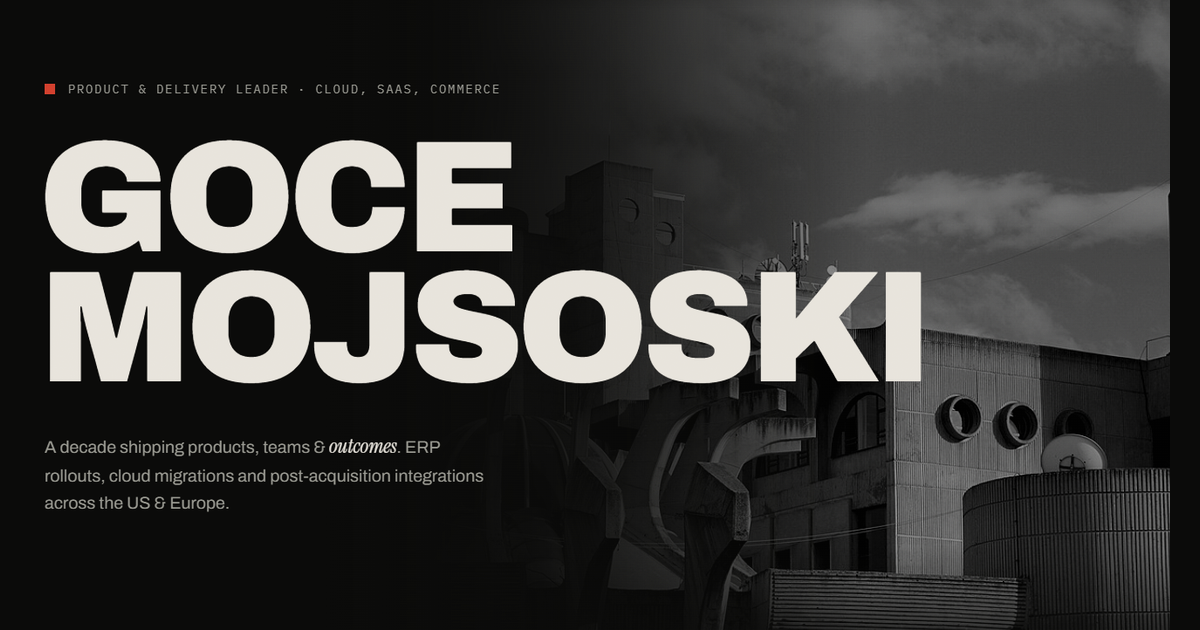
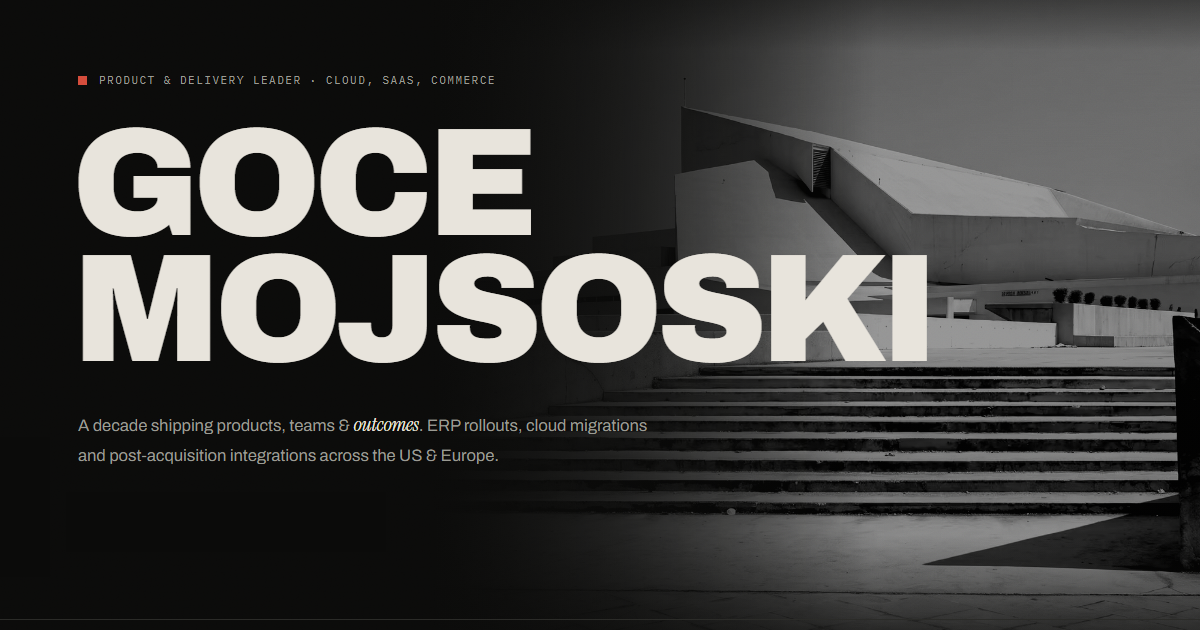
Share card: render the Opera hero as og-image.png
The 1200x630 social card still showed the post office photo. It is now
a headless-Chrome render of the current hero, cropped below the topbar
with the buttons and spine label painted out, like the old card.

The image URL gains ?v=2 in index.html and prerender's OG_IMAGE so
LinkedIn, Slack and Facebook fetch it fresh instead of serving the old
card from their URL-keyed caches. CLAUDE.md records how to redo it.

diff --git a/index.html b/index.html
@@ -58,7 +58,7 @@
       property="og:description"
       content="A decade shipping products, teams and outcomes across cloud, SaaS and commerce, US and Europe."
     />
-    <meta property="og:image" content="https://gmojsoski.com/og-image.png" />
+    <meta property="og:image" content="https://gmojsoski.com/og-image.png?v=2" />
     <meta
       property="og:image:alt"
       content="Goce Mojsoski, product and delivery leader"
@@ -72,7 +72,7 @@
       name="twitter:description"
       content="A decade shipping products, teams and outcomes across cloud, SaaS and commerce, US and Europe."
     />
-    <meta name="twitter:image" content="https://gmojsoski.com/og-image.png" />
+    <meta name="twitter:image" content="https://gmojsoski.com/og-image.png?v=2" />
     <meta
       name="twitter:image:alt"
       content="Goce Mojsoski, product and delivery leader"

diff --git a/CLAUDE.md b/CLAUDE.md
@@ -103,6 +103,12 @@ drive that.
     section, the hero's counterpart from above. Decorative (empty alt),
     lazy-loaded, about 30% visible, and `display: none` on phones so it is
     never downloaded there; hence `--desktop-only`.
+- **`public/og-image.png`** is a 1200×630 render of the hero: headless Chrome
+  (`--force-prefers-reduced-motion --window-size=1200,820`) against the dev
+  server, cropped below the topbar with the buttons and spine label painted
+  out. Redo it when the hero photo or copy changes, and bump the `?v=` on its
+  URL (`index.html` and `OG_IMAGE` in `scripts/prerender.mjs`): LinkedIn,
+  Slack and Facebook cache share images by URL.
 - **The back-to-top arrow holds a 100px gutter above 1720px** (`Footer.css`,
   `ScrollTop.css`). The content cap would otherwise strand it at the content
   edge, well inside a wide screen.
